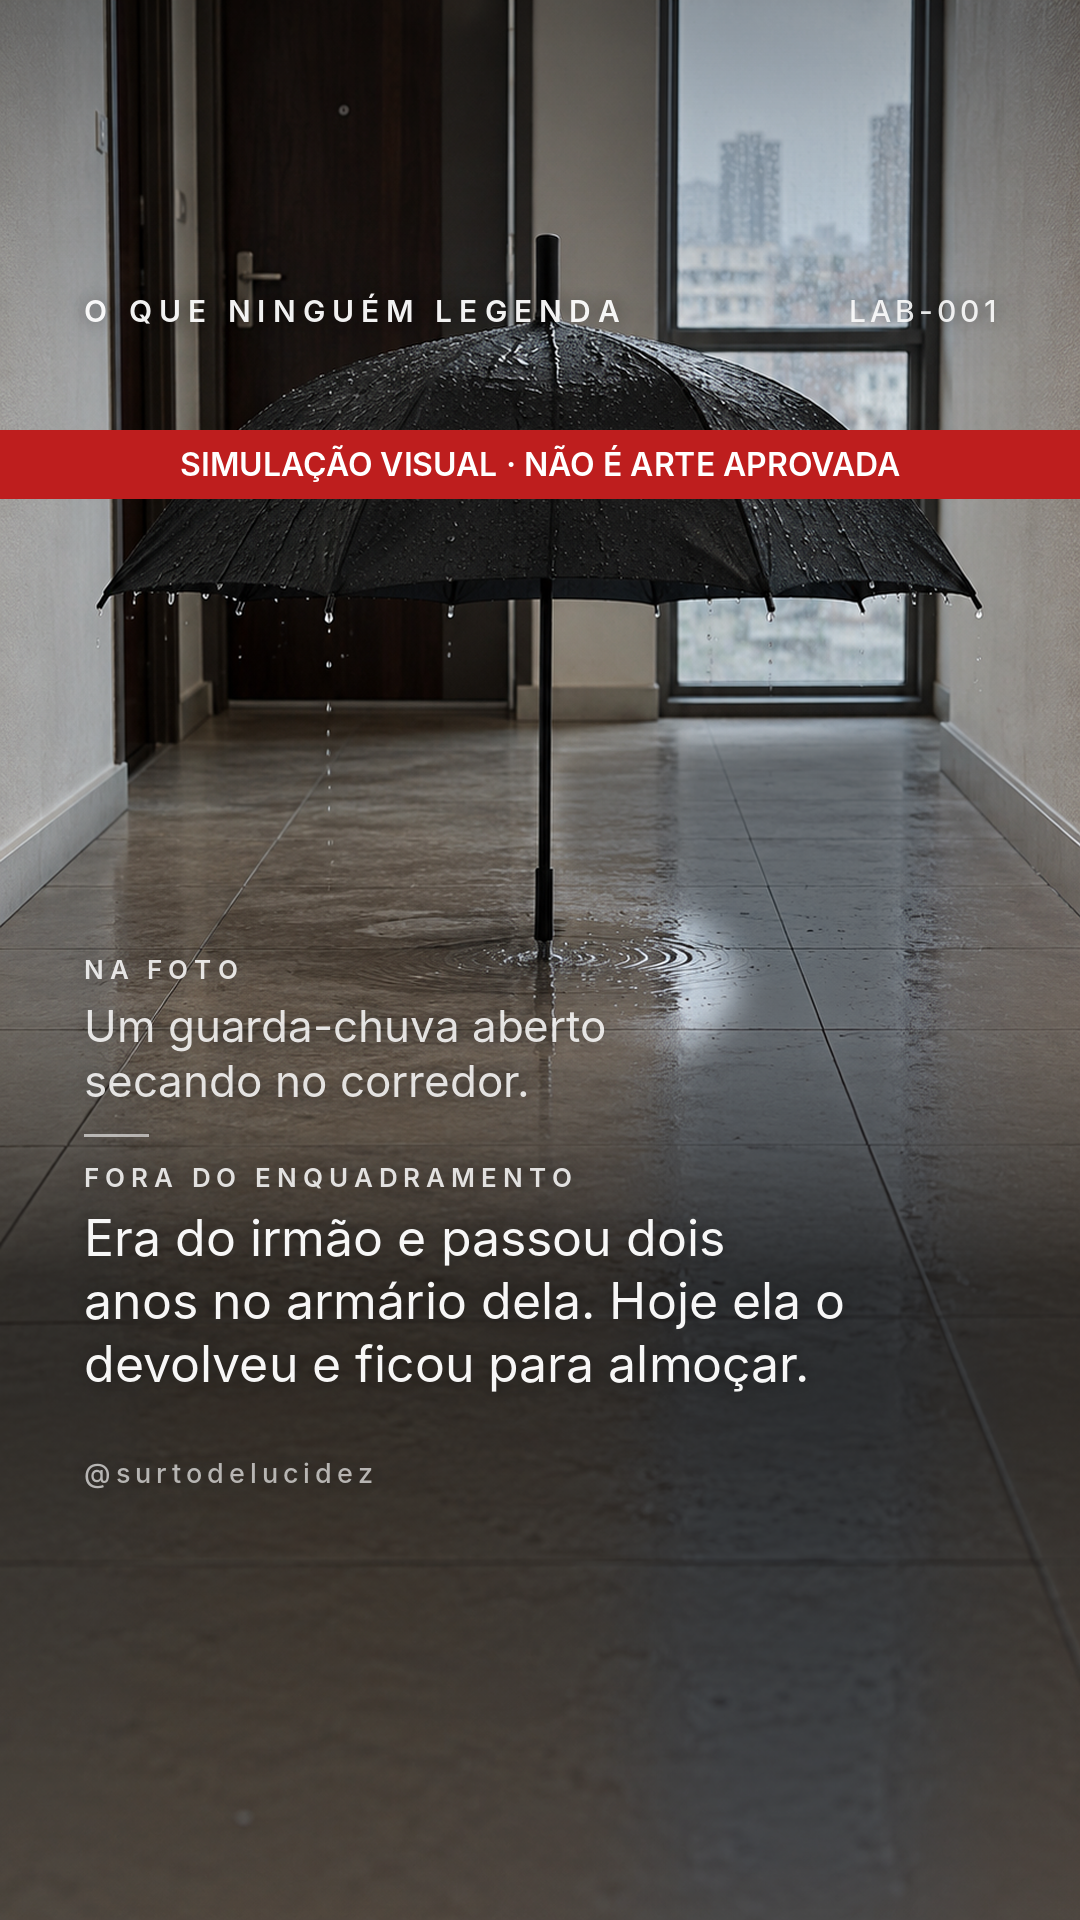
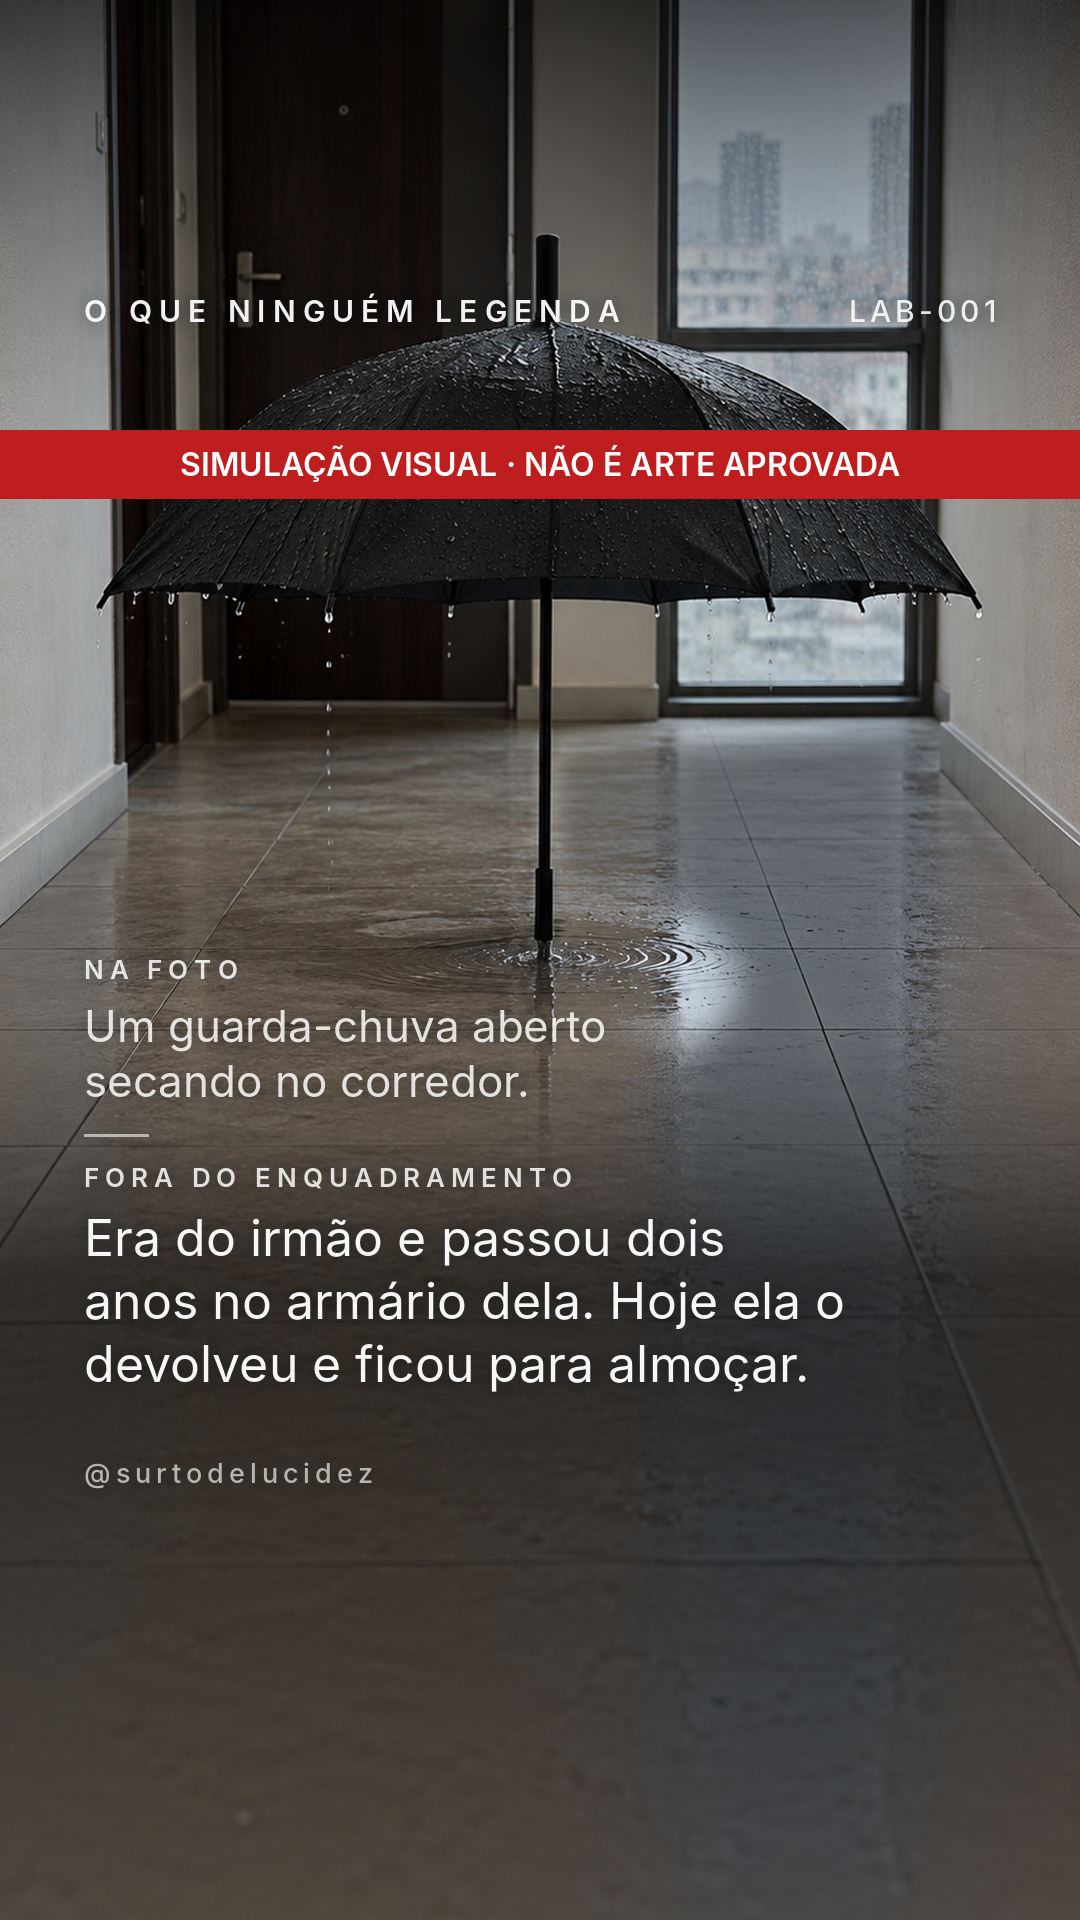
Perfil de teste B215 com degradê do topo reforçado (LAB-001, simulação); perfil B oficial e skill intactos
Claude-Session: https://claude.ai/code/session_01J8EXt1WstgWnYCg3bW9HdE

Changed region(s): [[0.4583, 0.0, 1.0, 0.1562], [0.0, 0.0, 0.1222, 0.125], [0.1528, 0.0, 0.1833, 0.0938]]

diff --git a/ninguem-legenda/skill_piloto/pilotos/LAB-001/compor_B215.py b/ninguem-legenda/skill_piloto/pilotos/LAB-001/compor_B215.py
@@ -1,11 +1,11 @@
 #!/usr/bin/env python3
-"""Composição de TESTE do perfil B com rótulos em transparência 215/255 (a skill e o perfil B oficial NÃO são alterados).
+"""Composição de TESTE do perfil B com rótulos em 215/255 e degradê do topo reforçado (0,65 até y 480) (a skill e o perfil B oficial NÃO são alterados).
 Uso: compor_B215.py FOTO SAIDA [--guias]"""
 import sys
 sys.dont_write_bytecode = True
 sys.path.insert(0, "../../o-que-ninguem-legenda-piloto/scripts")
 import compor_story as cs
-cs.PERFIS["B215"] = dict(cs.PERFIS["B"], rotulo_alpha=215)
+cs.PERFIS["B215"] = dict(cs.PERFIS["B"], rotulo_alpha=215, grad_topo_max=0.65, grad_topo_fim=480)
 NA_FOTO = "Um guarda-chuva aberto secando no corredor."
 FORA = "Era do irmão e passou dois anos no armário dela. Hoje ela o devolveu e ficou para almoçar."
 r = cs.compor(sys.argv[1], NA_FOTO, FORA, "LAB-001", sys.argv[2], perfil="B215", simulacao=True, guias="--guias" in sys.argv)

diff --git a/ninguem-legenda/skill_piloto/pilotos/LAB-001/AUDITORIA_FOTO_v10_tratada.md b/ninguem-legenda/skill_piloto/pilotos/LAB-001/AUDITORIA_FOTO_v10_tratada.md
@@ -21,3 +21,6 @@ Data: 24/10/2026. Origem: `foto_real_L8CFD_chatgpt_v10_original.png` (preservada
 
 ## Composição de teste com rótulos em 215/255 (autorizada por Eri, 24/10/2026 23:45)
 `compor_B215.py` (fora da skill) cria o perfil de teste B215 = perfil B com rotulo_alpha 215; perfil B oficial e skill intactos. Saída: `LAB-001_B215_foto_v10_tratada.png` (+ `_guias`). Aprovação técnica do script: SIM, texto não alterado. Rótulo NA FOTO: média 5,5 e pior decil 4,2 (limite provisório 4,5 e 3,0 para média e decil: média passa; decil passa). Observação visual: o número LAB-001 sobre a janela clara continua o elemento de menor contraste (pior decil 2,0; média 5,5, acima do mínimo de 3,0 para título e número). Aprovação visual: pendente de Eri.
+
+## Ajuste do degradê do topo no perfil de teste (Eri: "ajuste o que for necessário", 24/10/2026 23:47)
+Perfil de teste B215 agora também com degradê do topo reforçado (grad_topo_max 0,65 até y 480; perfil B oficial: 0,34 até y 420). Efeito medido sem a sombra do texto: número LAB-001 média 4,6 para 5,1 e pior decil 1,9 para 2,3; título média 14,7 para 15,2 e pior decil 4,6 para 5,5. Melhora modesta; o número sobre a janela clara segue o elemento de menor contraste, legível (limite provisório de média 3,0 atendido; a sombra do texto, não medida, ajuda). Alternativa que eliminaria a questão: nova geração com a janela menos clara atrás do título. Aprovação técnica SIM; visual pendente de Eri.
